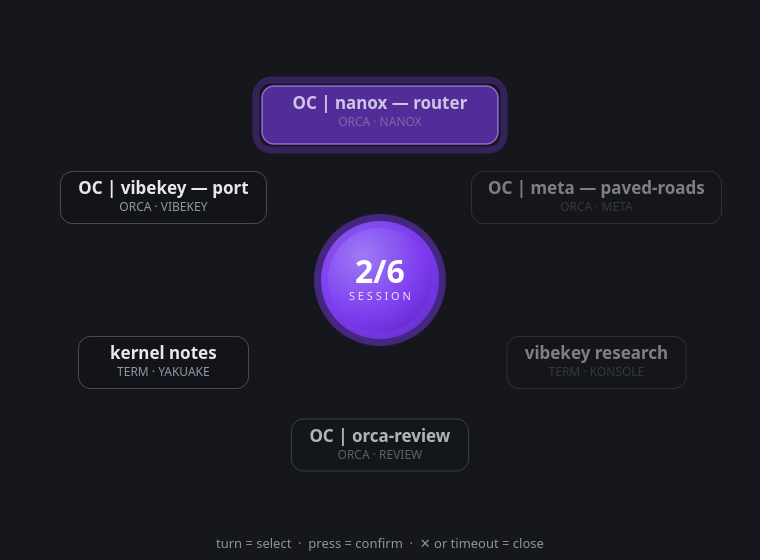
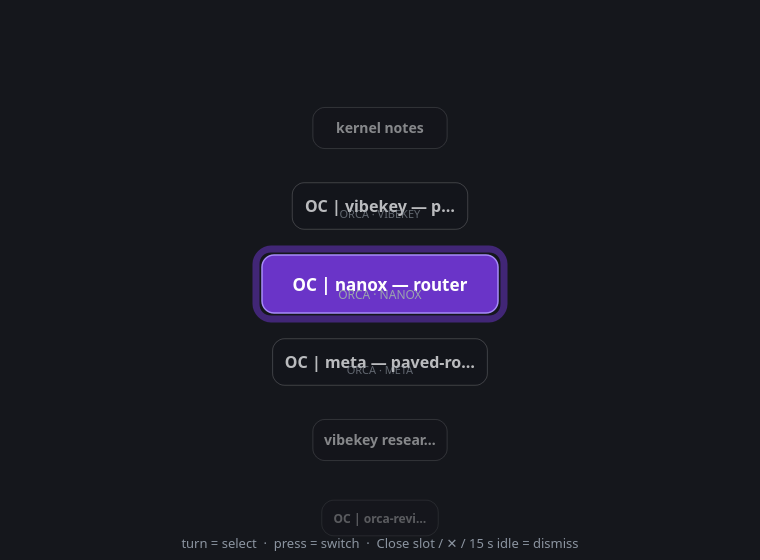
Wheel v3: vertical carousel — labels never crawl over each other
Owner: 'the rings of sessions are too dense, labels climb over each
other'. Honest geometry: 13 cards on a 250px-radius ellipse is ~100px of
arc per slot against cards up to 250px wide — overlap was guaranteed by
construction, not a styling miss.

Redraw the Panel overlay as an eased VERTICAL CAROUSEL (a cover flow is
the right visual for a knob: it is a rotary list): one column, selection
glows centered, three slots recede each way with depth scale/opacity,
wrap takes the short way round. Host caption only near the selection;
Close keeps its compact dim style (violet while selected). Same picker
state, same easing loop — daemon untouched.

Pixel test: 7 distinct card clusters on the centerline with >=12px of
air between them (and the glow bands merged), both mid-list and on the
Close wrap. README table + getting-started + presets re-synced to the
press-switch semantics the v1 text still contradicted; docs asset
ring-overlay.png re-rendered.

diff --git a/panel/panel.py b/panel/panel.py
@@ -1126,23 +1126,30 @@ class RingOverlay(QWidget):
             self.update()
         return False
 
+    # ---- carousel geometry -------------------------------------------------
+    # 13 cards around an ellipse gave ~100 px per slot against cards up to
+    # 250 px wide: labels crawled over each other (owner 2026-11-16 "too
+    # dense"). A vertical carousel (cover flow for a knob — a rotary list)
+    # keeps every label on its own row: one column, selection center,
+    # neighbors receding with eased depth. Same picker state, same easing.
+    STEP = 78.0        # px between slots
+    WINDOW = 3         # slots shown each side of the selection
+
+    def _depth(self, i, n):
+        """Signed slot distance from the selection along the nearest wrap."""
+        d = (i - self.cur) % n
+        return d - n if d > n / 2.0 else d
+
     def paintEvent(self, _ev):
-        import math
         p = QPainter(self)
         p.setRenderHint(QPainter.Antialiasing)
-        cx, cy = self.width() / 2.0, self.height() / 2.0
-        n = max(1, len(self.items))
-        def angle(i):
-            return ((i - self.cur) / n) * 2 * math.pi - math.pi / 2
-        def pos(a):
-            return cx + math.cos(a) * self.RX, cy + math.sin(a) * self.RY
-        back = [i for i in range(len(self.items)) if math.sin(angle(i)) <= 0]
-        front = [i for i in range(len(self.items)) if math.sin(angle(i)) > 0]
-        for i in sorted(back, key=lambda i: angle(i)):
-            self._card(p, i, *pos(angle(i)))
-        self._hub(p, cx, cy)
-        for i in sorted(front, key=lambda i: angle(i)):
-            self._card(p, i, *pos(angle(i)))
+        cx = self.width() / 2.0
+        cy = self.height() / 2.0 + 4
+        n = len(self.items)
+        for i in sorted(range(n), key=lambda i: -abs(self._depth(i, n))):
+            if abs(self._depth(i, n)) > self.WINDOW + 0.5:
+                continue
+            self._card(p, i, cx, cy + self._depth(i, n) * self.STEP)
         p.setPen(QColor("#8b94a0"))
         p.setFont(QFont("sans", 10))
         p.drawText(self.rect().adjusted(0, 0, 0, -8), Qt.AlignHCenter | Qt.AlignBottom,
@@ -1151,20 +1158,25 @@ class RingOverlay(QWidget):
     def _card(self, p, i, x, y):
         it = self.items[i]
         is_close = str(it.get("id")) == "__close__"
-        cur = (round(self.cur) % len(self.items)) == i
-        a = ((i - self.cur) / max(1, len(self.items))) * 2 * 3.14159
-        op = 0.45 + 0.55 * (1 - __import__("math").sin(a)) / 2.0
+        n = max(1, len(self.items))
+        d = abs(self._depth(i, n))
+        cur = (round(self.cur) % n) == i
+        scale = max(0.66, 1.0 - d * 0.105)
+        op = max(0.32, 1.0 - d * 0.24)
         title = str(it.get("title") or "")
         host = str(it.get("host") or "")
-        f_t = QFont("sans", 13 if not is_close else 12, QFont.Bold)
-        f_h = QFont("sans", 9)
-        w = 110 if is_close else max(170, min(250, QFontMetrics(f_t).horizontalAdvance(title) + 36))
-        h = 52 if not is_close else 40
+        f_t = QFont("sans")
+        f_t.setPointSizeF(13.0 * scale)
+        f_t.setBold(True)
+        f_h = QFont("sans")
+        f_h.setPointSizeF(9.0 * scale)
+        w = (110 if is_close else max(170, min(250, QFontMetrics(f_t).horizontalAdvance(title) + 36))) * scale
+        h = (52 if not is_close else 40) * scale
         if cur:
             w, h = int(w * 1.12), int(h * 1.12)
         rect = QRectF(x - w / 2, y - h / 2, w, h)
         p.setOpacity(op)
-        if cur:  # violet glow behind the current card
+        if cur:  # violet glow behind the selected card
             glow = QRectF(rect).adjusted(-6, -6, 6, 6)
             p.setPen(QPen(QColor(124, 58, 237, 110), 7))
             p.setBrush(Qt.NoBrush)
@@ -1178,33 +1190,12 @@ class RingOverlay(QWidget):
         p.setFont(f_t)
         p.drawText(rect, Qt.AlignCenter, title if is_close else
                    QFontMetrics(f_t).elidedText(title, Qt.ElideRight, int(rect.width() - 20)))
-        if not is_close:
+        if not is_close and scale > 0.8:
             p.setPen(QColor(154, 163, 173, int(255 * op)))
             p.setFont(f_h)
-            p.drawText(QRectF(rect.left(), rect.top() + 27, rect.width(), 16),
+            p.drawText(QRectF(rect.left(), rect.top() + rect.height() * 0.52, rect.width(), rect.height() * 0.3),
                        Qt.AlignCenter, host.upper())
         p.setOpacity(1.0)
-
-    def _hub(self, p, cx, cy):
-        r = 59.0
-        grad = QRadialGradient(cx - r * 0.3, cy - r * 0.4, r * 1.9, cx - r * 0.3, cy - r * 0.4)
-        grad.setColorAt(0.0, QColor("#9d7bf7"))
-        grad.setColorAt(0.55, QColor("#7c3aed"))
-        grad.setColorAt(1.0, QColor("#4c1ea6"))
-        p.setPen(QPen(QColor(124, 58, 237, 120), 14))   # ambient glow
-        p.setBrush(grad)
-        p.drawEllipse(QRectF(cx - r, cy - r, 2 * r, 2 * r))
-        n = len(self.items)
-        sessions = sum(1 for it in self.items if str(it.get("id")) != "__close__")
-        sel = round(self.cur) % n if n else 0
-        on_close = n > 0 and str(self.items[sel].get("id")) == "__close__"
-        p.setPen(QColor("#ffffff"))
-        p.setFont(QFont("sans", 24, QFont.Bold))
-        p.drawText(QRectF(cx - r, cy - 26, 2 * r, 34), Qt.AlignCenter,
-                   "✕" if on_close else "%d/%d" % (sel + 1, sessions))
-        p.setFont(QFont("sans", 8))
-        p.setPen(QColor(255, 255, 255, 210))
-        p.drawText(QRectF(cx - r, cy + 8, 2 * r, 16), Qt.AlignCenter, "S E S S I O N")
 
 
 # ---------------------------------------------------------------------------

diff --git a/README.md b/README.md
@@ -25,9 +25,9 @@ OpenCode/Orca agent Presets — planned entirely as a
 | 🎙 **Voice key** | **Dictation** | hold-to-talk via [handy](docs/presets.md#dictation) — release, and text appears (~0.5–2 s) |
 | ✓ **Confirm** | **Next Session** | step the Ring of OpenCode Sessions; raises each Session's Host |
 | ✕ **Cancel** | **Interrupt** | stop the agent — API-first, never `Ctrl+C` |
-| **Knob press** | open/close the **Wheel** | the on-screen **Ring** of Sessions — press again to confirm where you landed |
+| **Knob press** | open the **Wheel** | the on-screen carousel of Sessions; press again to **switch** to the selection (press on **Close** = dismiss) |
 | **Knob long-press** | `Enter` | accepts agent permission prompts without touching the keyboard |
-| **Knob turn** | step the **Ring** | selects the next/previous Session and raises its Host live, under the Wheel |
+| **Knob turn** | move the **Ring** | Wheel open: selects only — no switch until you press; Wheel closed: steps and raises the Host live |
 
 Every Control is reassignable from the Panel — presets, key combos, or shell
 commands ([docs/presets.md](docs/presets.md)).

diff --git a/docs/getting-started.md b/docs/getting-started.md
@@ -64,8 +64,9 @@ Open **vibekey Panel** (applications menu, or `vibekey-panel`).
   picker** so you can reassign it.
 - The **header** shows where the **Ring** points (`Session 2/6 — title`), and battery.
 - **Ring & Wheel**: press the knob and a **Wheel** of your Sessions opens over
-  the screen — turn to select (each Session's Host raises live underneath),
-  press again to confirm, the **Close** slot, ✕ or 15 s idle to dismiss. Long-press remains
+  the screen — turn to select (nothing switches while you browse), **press to
+  switch** to the selected Session, the **Close** slot, ✕ or 15 s idle to
+  dismiss. Long-press remains
   `Enter` — the gesture that accepts an agent's permission prompt
   ([docs/presets.md](presets.md#the-ring--the-wheel)).
 - The **status line** narrates everything the Daemon sees — while the Panel

diff --git a/docs/presets.md b/docs/presets.md
@@ -56,7 +56,8 @@ RTX-class GPU beat CPU by ~30 % on short dictations.
 
 The knob is the **Session Ring** dial. Press it and the **Wheel** opens over
 the screen (drawn by the Panel): every Session with its Host badge, the
-**Close** slot, your current one glowing on top. Turning while the Wheel is
+**Close** slot, as a vertical carousel — the selection glows in the centre,
+neighbours recede above and below. Turning while the Wheel is
 open *only selects* — nothing switches, no windows move. **Press switches**:
 the selection becomes the Cursor and its Host is raised (Orca tab plus window
 raise, or plain-terminal raise). Press on the Close slot, ✕, or fifteen idle
